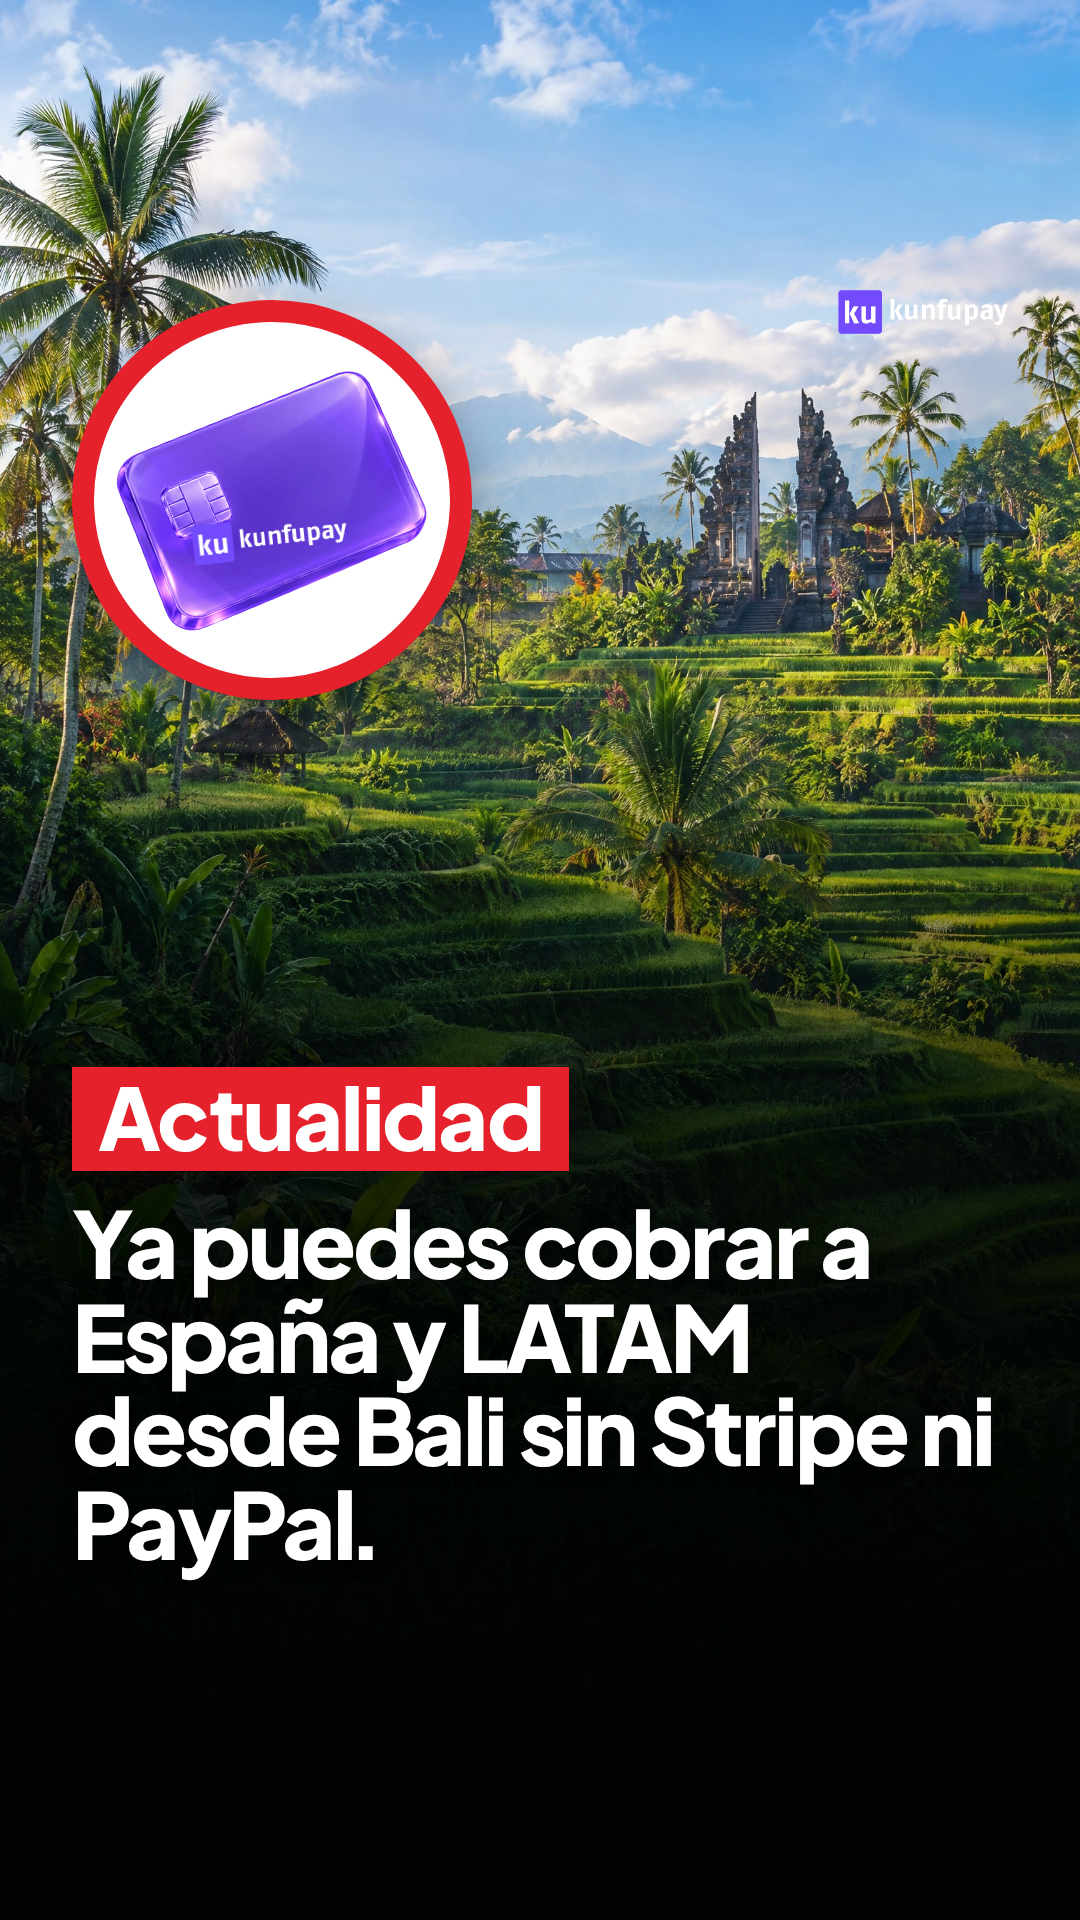
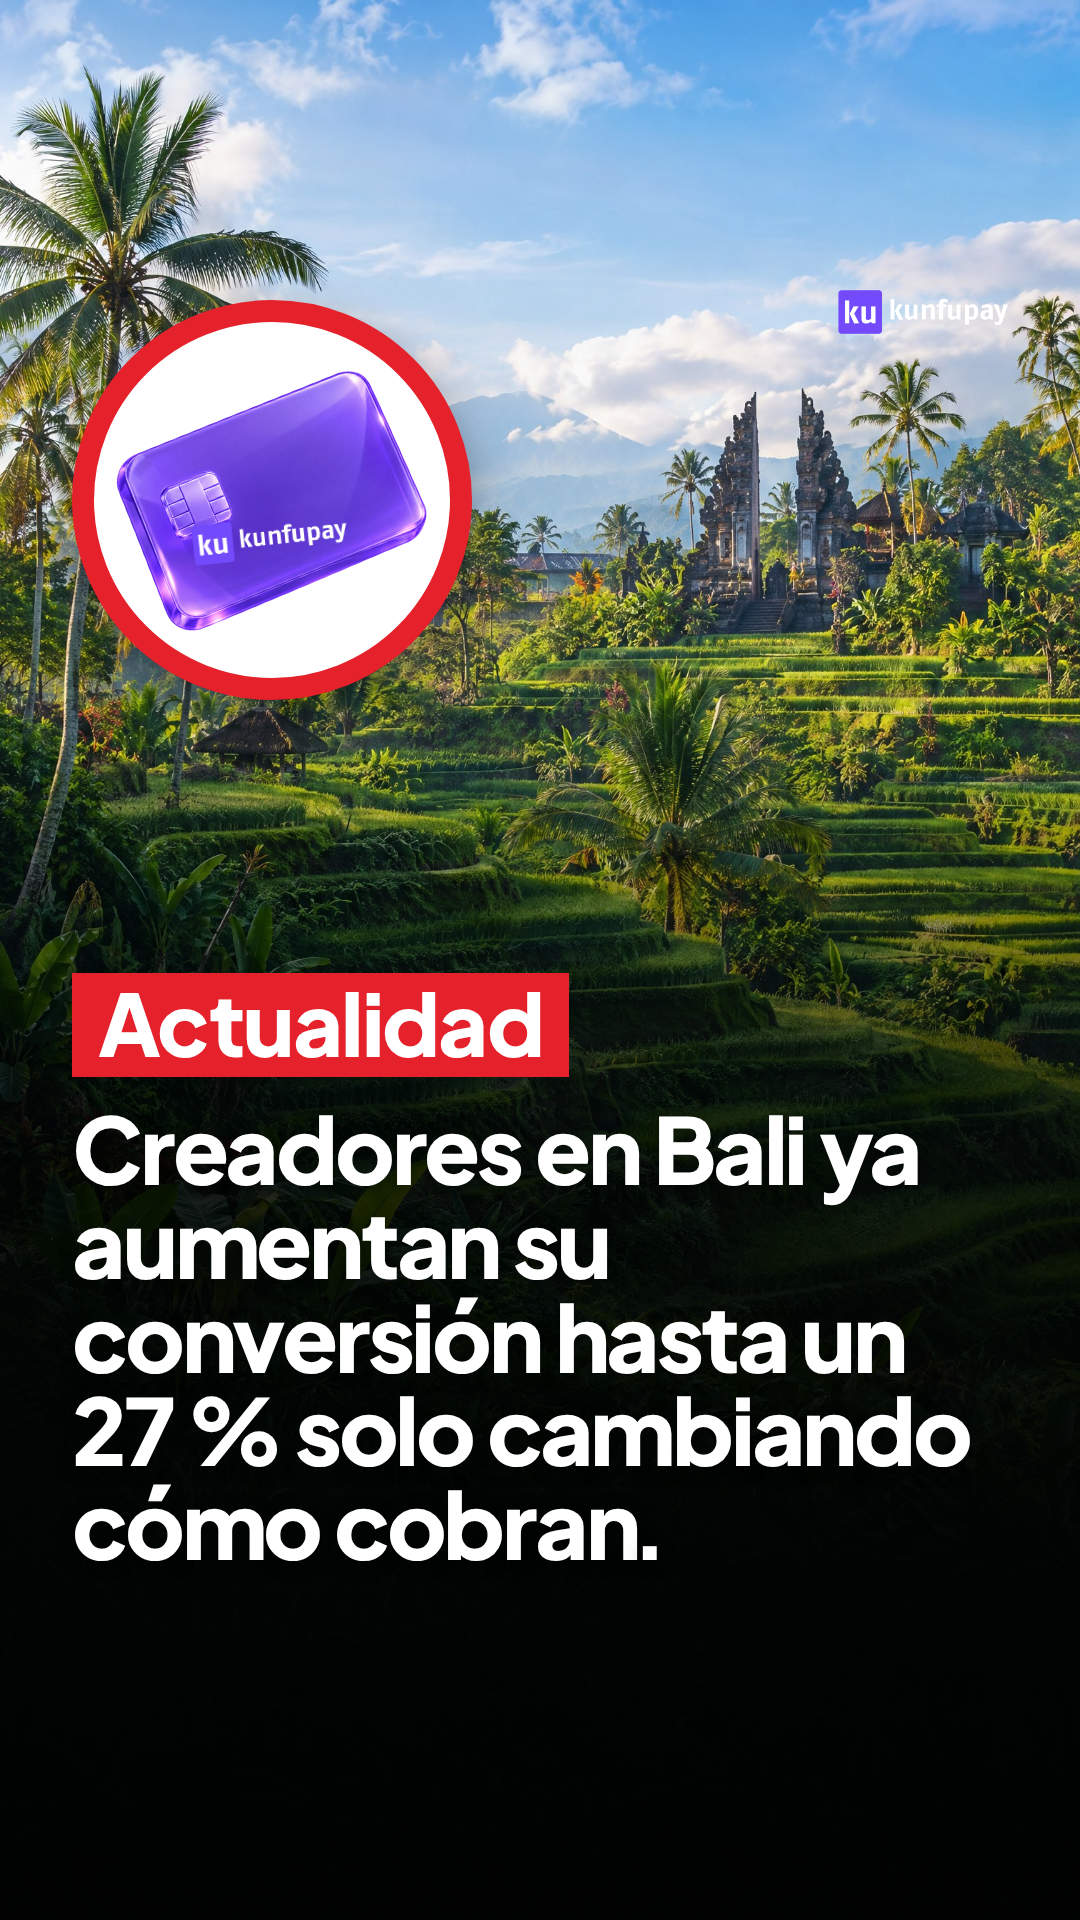
HUBS: E5 noticia con titular de beneficio (hasta un 27 % de conversión)
Claude-Session: https://claude.ai/code/session_01CrG1buW4YQaBwXCV6dNp28

Changed region(s): [[0.0611, 0.5, 0.9167, 0.8438]]

diff --git a/creatividades/metodos-de-pago/hubs/HUBS-V2-BENEFICIOS.md b/creatividades/metodos-de-pago/hubs/HUBS-V2-BENEFICIOS.md
@@ -95,18 +95,19 @@
 - **Título:** Hasta un 30 % más, sin vender más
 
 ### E5 · Noticia
-- **Imagen:** foto de la ciudad en alta resolución, círculo con aro rojo con la tarjeta de Kunfupay, etiqueta roja «Actualidad» y titular «Ya puedes cobrar desde Latinoamérica a alumnos de todo el mundo sin Stripe ni PayPal.»
+- **Imagen:** foto de la ciudad en alta resolución, círculo con aro rojo con la tarjeta de Kunfupay, etiqueta roja «Actualidad» y titular «Creadores en Latinoamérica ya aumentan su conversión hasta un 27 % solo cambiando cómo cobran.»
 - **Texto:**
   ```text
-  Ya puedes cobrar desde Latinoamérica a alumnos de todo el mundo, sin Stripe ni PayPal.
-  
-  Un solo enlace.
-  Cada alumno paga como paga en su país.
-  Y tú recibes euros o dólares.
-  
+  Creadores en Latinoamérica ya aumentan su conversión hasta un 27 % solo cambiando cómo cobran.
+
+  No venden más.
+  Cobran mejor.
+  Con un solo enlace, cada alumno paga como paga en su país.
+  Y ellos reciben euros o dólares.
+
   Haz clic y descubre cómo.
   ```
-- **Título:** Ya puedes cobrar sin Stripe ni PayPal
+- **Título:** Hasta un 27 % más de conversión
 
 ---
 
@@ -185,18 +186,19 @@
 - **Título:** Hasta un 30 % más desde Miami
 
 ### E5 · Noticia
-- **Imagen:** foto de la ciudad en alta resolución, círculo con aro rojo con la tarjeta de Kunfupay, etiqueta roja «Actualidad» y titular «Ya puedes cobrar a toda LATAM desde Miami sin Stripe ni PayPal.»
+- **Imagen:** foto de la ciudad en alta resolución, círculo con aro rojo con la tarjeta de Kunfupay, etiqueta roja «Actualidad» y titular «Creadores en Miami ya aumentan su conversión hasta un 27 % solo cambiando cómo cobran.»
 - **Texto:**
   ```text
-  Ya puedes cobrar a toda LATAM desde Miami, sin Stripe ni PayPal.
-  
-  Un solo enlace.
-  Cada cliente paga como paga en su país.
-  Y tú recibes dólares.
-  
+  Creadores en Miami ya aumentan su conversión hasta un 27 % solo cambiando cómo cobran.
+
+  No venden más.
+  Cobran mejor.
+  Con un solo enlace, cada cliente paga como paga en su país.
+  Y ellos reciben dólares.
+
   Haz clic y descubre cómo.
   ```
-- **Título:** Ya puedes cobrar sin Stripe ni PayPal
+- **Título:** Hasta un 27 % más de conversión
 
 ---
 
@@ -264,18 +266,19 @@
 - **Título:** Hasta un 30 % más desde Dubái
 
 ### E5 · Noticia
-- **Imagen:** foto de la ciudad en alta resolución, círculo con aro rojo con la tarjeta de Kunfupay, etiqueta roja «Actualidad» y titular «Ya puedes cobrar a España y LATAM desde Dubái sin Stripe ni PayPal.»
+- **Imagen:** foto de la ciudad en alta resolución, círculo con aro rojo con la tarjeta de Kunfupay, etiqueta roja «Actualidad» y titular «Creadores en Dubái ya aumentan su conversión hasta un 27 % solo cambiando cómo cobran.»
 - **Texto:**
   ```text
-  Ya puedes cobrar a España y LATAM desde Dubái, sin Stripe ni PayPal.
-  
-  Un solo enlace.
-  Cada cliente paga como paga en su país.
-  Y tú recibes euros o dólares.
-  
+  Creadores en Dubái ya aumentan su conversión hasta un 27 % solo cambiando cómo cobran.
+
+  No venden más.
+  Cobran mejor.
+  Con un solo enlace, cada cliente paga como paga en su país.
+  Y ellos reciben euros o dólares.
+
   Haz clic y descubre cómo.
   ```
-- **Título:** Ya puedes cobrar sin Stripe ni PayPal
+- **Título:** Hasta un 27 % más de conversión
 
 ---
 
@@ -354,18 +357,19 @@
 - **Título:** Hasta un 30 % más, mientras duermes
 
 ### E5 · Noticia
-- **Imagen:** foto de la ciudad en alta resolución, círculo con aro rojo con la tarjeta de Kunfupay, etiqueta roja «Actualidad» y titular «Ya puedes cobrar a España y LATAM desde Bali sin Stripe ni PayPal.»
+- **Imagen:** foto de la ciudad en alta resolución, círculo con aro rojo con la tarjeta de Kunfupay, etiqueta roja «Actualidad» y titular «Creadores en Bali ya aumentan su conversión hasta un 27 % solo cambiando cómo cobran.»
 - **Texto:**
   ```text
-  Ya puedes cobrar a España y LATAM desde Bali, sin Stripe ni PayPal.
-  
-  Un solo enlace, a cualquier hora.
-  Cada cliente paga como paga en su país.
-  Y tú recibes euros o dólares.
-  
+  Creadores en Bali ya aumentan su conversión hasta un 27 % solo cambiando cómo cobran.
+
+  No venden más.
+  Cobran mejor.
+  Con un solo enlace, cada cliente paga como paga en su país.
+  Y ellos reciben euros o dólares.
+
   Haz clic y descubre cómo.
   ```
-- **Título:** Ya puedes cobrar sin Stripe ni PayPal
+- **Título:** Hasta un 27 % más de conversión
 
 ---
 
